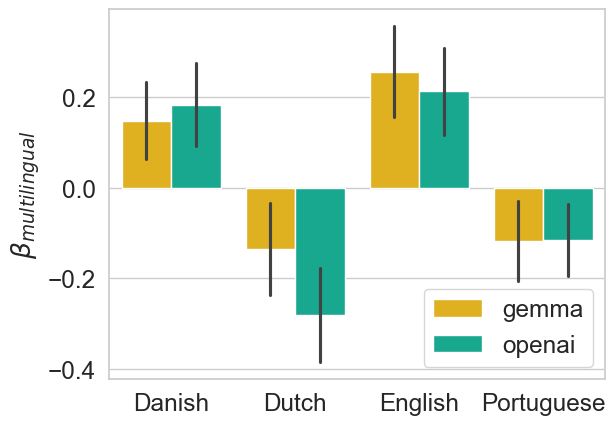
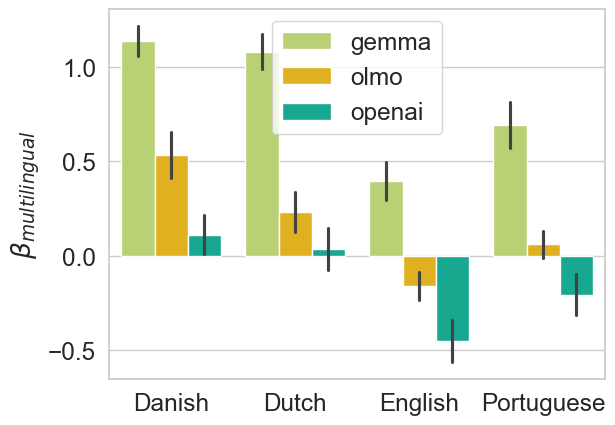
update figures

diff --git a/scripts/plot_multilingual_benchmarks.py b/scripts/plot_multilingual_benchmarks.py
@@ -80,6 +80,7 @@ def get_benchmark_data():
         .with_columns(pl.col("model").replace(MODEL_NAME_MAPPING))
         .cast({"model": get_model_enum()})
         .filter(~pl.col("benchmark").str.contains("ENEM"))
+        .drop_nulls()
     )
     return benches
 
@@ -249,7 +250,7 @@ if __name__ == "__main__":
         lang = ax.get_title().split(" = ")[-1]  # This gets the language name from the subplot title
 
         # For each family, plot the regression line
-        for family in ["gemma", "openai"]:
+        for family in ["gemma", "openai", "olmo"]:
             plot_data = benchmark_alignment.filter((pl.col("family") == family) & (pl.col("language") == lang))
 
             # Get intercept and slope
